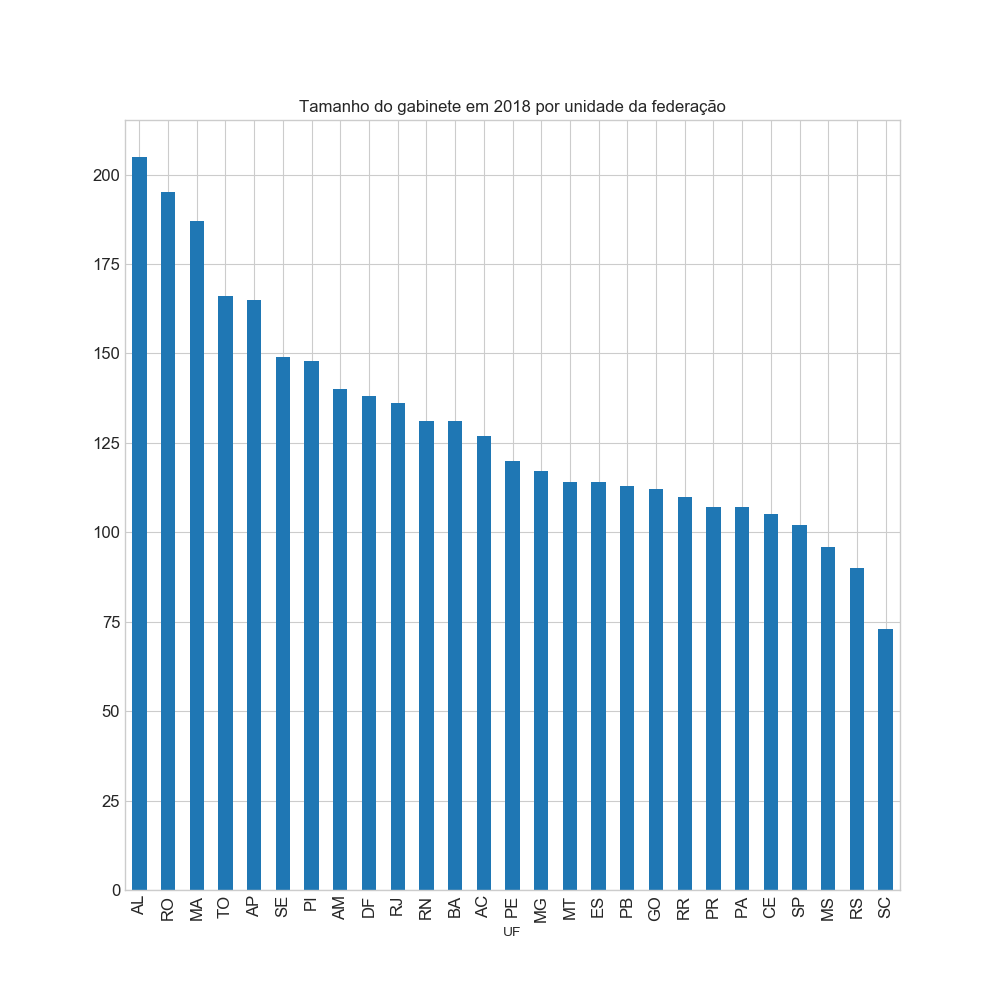
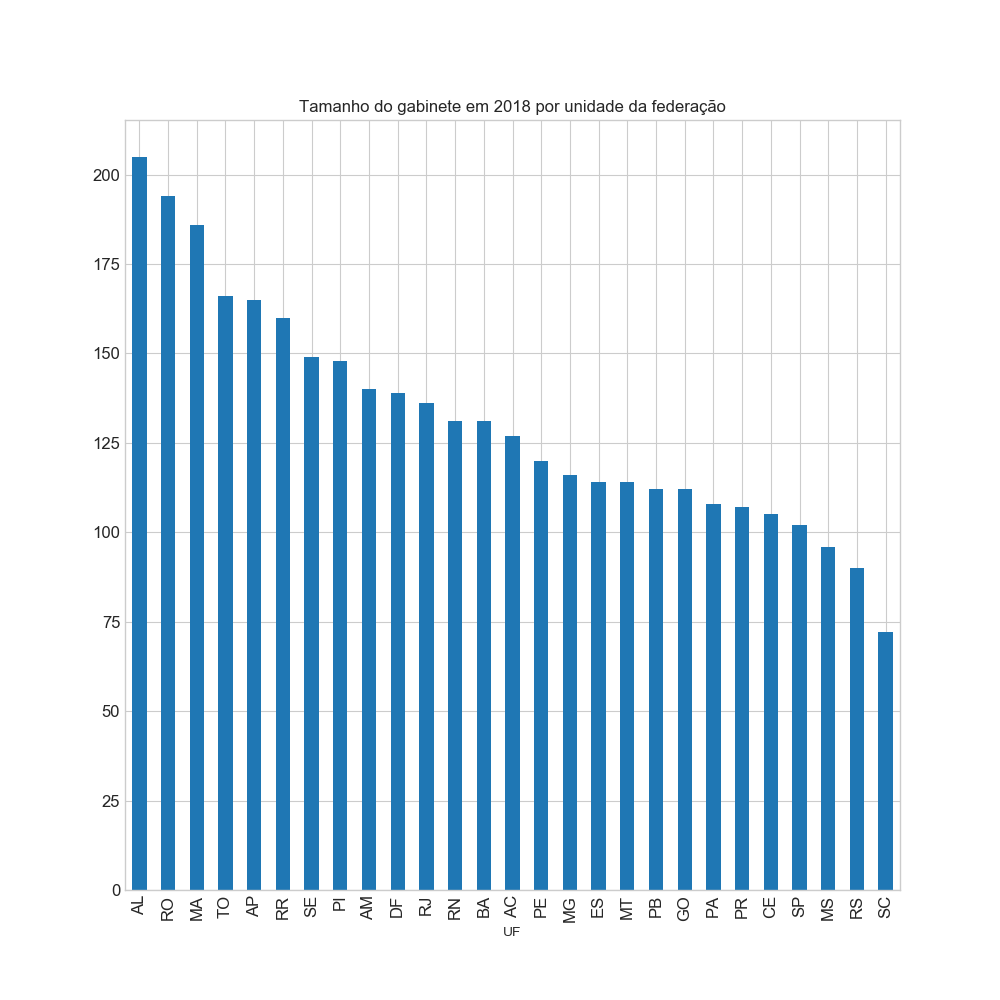
Tratamento de arquivo de creditos quando falta foto Preferência por aspas simples Atualização de dados do Senado

diff --git a/index.html b/index.html
@@ -23,7 +23,7 @@
 <!--Data-->       
 08/06/2018 às 
 <!--Hora-->
-00:48:32      </b><br></div>
+12:01:29      </b><br></div>
       <br>
       <div class="TextoImagem">
         <center>
@@ -166,7 +166,7 @@
               <td align='left'>Titular</td>
               <td align='middle'>MG</td>
               <td align='left'>PSDB</td>
-              <td align='right'>24 pessoas</td>
+              <td align='right'>23 pessoas</td>
               <td align='right'>39 meses</td>
             </tr>
             <tr>
@@ -221,7 +221,7 @@
               <td align='left'>Titular</td>
               <td align='middle'>PB</td>
               <td align='left'>PSDB</td>
-              <td align='right'>52 pessoas</td>
+              <td align='right'>51 pessoas</td>
               <td align='right'>40 meses</td>
             </tr>
             <tr>
@@ -430,7 +430,7 @@
               <td align='left'>1º Suplente</td>
               <td align='middle'>DF</td>
               <td align='left'>PROS</td>
-              <td align='right'>98 pessoas</td>
+              <td align='right'>99 pessoas</td>
               <td align='right'>0 meses</td>
             </tr>
             <tr>
@@ -452,7 +452,7 @@
               <td align='left'>Titular</td>
               <td align='middle'>RO</td>
               <td align='left'>PP</td>
-              <td align='right'>75 pessoas</td>
+              <td align='right'>74 pessoas</td>
               <td align='right'>41 meses</td>
             </tr>
             <tr>
@@ -474,7 +474,7 @@
               <td align='left'>Titular</td>
               <td align='middle'>MA</td>
               <td align='left'>MDB</td>
-              <td align='right'>87 pessoas</td>
+              <td align='right'>86 pessoas</td>
               <td align='right'>41 meses</td>
             </tr>
             <tr>
@@ -672,7 +672,7 @@
               <td align='left'>Titular</td>
               <td align='middle'>SC</td>
               <td align='left'>PSDB</td>
-              <td align='right'>28 pessoas</td>
+              <td align='right'>27 pessoas</td>
               <td align='right'>41 meses</td>
             </tr>
             <tr>
@@ -694,7 +694,7 @@
               <td align='left'>Titular</td>
               <td align='middle'>PA</td>
               <td align='left'>PT</td>
-              <td align='right'>46 pessoas</td>
+              <td align='right'>47 pessoas</td>
               <td align='right'>24 meses</td>
             </tr>
             <tr>
@@ -870,7 +870,7 @@
               <td align='left'>2º Suplente</td>
               <td align='middle'>RR</td>
               <td align='left'>PV</td>
-              <td align='right'>0 pessoas</td>
+              <td align='right'>50 pessoas</td>
               <td align='right'>0 meses</td>
             </tr>
             <tr>

diff --git a/senado.py b/senado.py
@@ -58,7 +58,7 @@ parser.add_argument('-i', '--intervalo', dest='intervalo', type=float, default=0
 
 args = parser.parse_args()
 
-versao = '0.2.31'
+versao = '0.2.32'
 
 
 def leDadosParlamentares(legislatura=55):
@@ -83,11 +83,11 @@ def leDadosParlamentares(legislatura=55):
                             'Quarta', 'Quinta', 'Sexta', 'Setima', 'Oitava', 'Nona']
         for ordinal in ordemLegislatura:
             # Se não encontrou legislatura então não é senador atual
-            if parlamentar['Mandatos']['Mandato'].get(f"{ordinal}LegislaturaDoMandato", '') == '':
+            if parlamentar['Mandatos']['Mandato'].get(f'{ordinal}LegislaturaDoMandato', '') == '':
                 return False
 
             ordemLegislatura = parlamentar['Mandatos'][
-                'Mandato'][f"{ordinal}LegislaturaDoMandato"]
+                'Mandato'][f'{ordinal}LegislaturaDoMandato']
             # Datas estão no formato aaaa-mm-dd
             inicio = [int(x)
                       for x in ordemLegislatura['DataInicio'].split('-')]
@@ -113,8 +113,8 @@ def leDadosParlamentares(legislatura=55):
     # Define que aceita JSON
     # Resposta padrão da API é XML
     header = {'Accept': 'application/json',
-              'user-agent': f"senadoInfo/{versao}"}
-    url = f"http://legis.senado.leg.br/dadosabertos/senador/lista/legislatura/{legislatura}"
+              'user-agent': f'senadoInfo/{versao}'}
+    url = f'http://legis.senado.leg.br/dadosabertos/senador/lista/legislatura/{legislatura}'
 
     try:
         senadores = requests.get(url, headers=header)
@@ -154,8 +154,8 @@ def leDadosParlamentares(legislatura=55):
     PI,5016,wellington.dias@senador.leg.br,Wellington Dias,José Wellington Barroso de Araujo Dias,PT,Masculino
     Os dados destes senadores não serão incluídos nos cálculos de estatísticas
     """
-    listaNegada = ["Demóstenes Torres", "Gilvam Borges", "Itamar Franco", "João Ribeiro",
-                   "Marinor Brito", "Vital do Rêgo", "Wellington Dias", "Wilson Santiago"]
+    listaNegada = ['Demóstenes Torres', 'Gilvam Borges', 'Itamar Franco', 'João Ribeiro',
+                   'Marinor Brito', 'Vital do Rêgo', 'Wellington Dias', 'Wilson Santiago']
     i = 0
     # Retira da lista os parlamentares que nunca exerceram mandato
     # ou que estão na "listaNegada"
@@ -234,9 +234,9 @@ def infoSenador(codigoSenador, ano=2017, intervalo=0, nascimento=False):
     if intervalo > 0:
         time.sleep(intervalo)
 
-    header = {'user-agent': f"senadoInfo/{versao}"}
+    header = {'user-agent': f'senadoInfo/{versao}'}
     # Coleta a página
-    url = f"http://www6g.senado.leg.br/transparencia/sen/{codigoSenador}/?ano={ano}"
+    url = f'http://www6g.senado.leg.br/transparencia/sen/{codigoSenador}/?ano={ano}'
 
     try:
         requisicao = requests.get(url, headers=header)
@@ -255,7 +255,7 @@ def infoSenador(codigoSenador, ano=2017, intervalo=0, nascimento=False):
         labelDadosPessoais = sopaSenador.find(
             'div', {'class': 'dadosPessoais'}).find_all('dt')
 
-        dataNascimento, cidade, estado = ["", "", ""]
+        dataNascimento, cidade, estado = ['', '', '']
 
         for index, label in enumerate(labelDadosPessoais):
             if label.text == 'Data de Nascimento:':
@@ -266,9 +266,9 @@ def infoSenador(codigoSenador, ano=2017, intervalo=0, nascimento=False):
                 if len(cidadeEstado) == 2:
                     estado = cidadeEstado[1].strip()[1:3]
 
-        if cidade == "":
+        if cidade == '':
             listaMunicipios = []
-        elif estado == "":
+        elif estado == '':
             listaMunicipios = municipios.query(
                 'NM_MUN_2016 == "{}"'.format(cidade.upper())).values
         else:
@@ -278,7 +278,7 @@ def infoSenador(codigoSenador, ano=2017, intervalo=0, nascimento=False):
         if len(listaMunicipios) != 1:
             codMunicipio = -1
             if args.debug:
-                print("Senador {}, erro de municipio: {} {}".format(
+                print('Senador {}, erro de municipio: {} {}'.format(
                     codigoSenador, cidade, estado))
         else:
             codMunicipio = listaMunicipios[0][4]
@@ -361,15 +361,17 @@ def infoSenador(codigoSenador, ano=2017, intervalo=0, nascimento=False):
 
     # Recupera dados de pessoal
     # bloco->div(#accordion-pessoal)->tbody->ALL tr(.sen_tabela_linha_grupo)
-    corpoQuantidade = bloco.find('div', {'id': 'accordion-pessoal'}).find('tbody')
+    corpoQuantidade = bloco.find(
+        'div', {'id': 'accordion-pessoal'}).find('tbody')
     if corpoQuantidade != None:
-        quantidades = corpoQuantidade.find_all('tr', {'class': 'sen_tabela_linha_grupo'})
+        quantidades = corpoQuantidade.find_all(
+            'tr', {'class': 'sen_tabela_linha_grupo'})
 
         # O título da utilização de pessoal está no elemento <span> e quantidades no elemento <a>
         for i in range(len(quantidades)):
             infoPessoal.append(
                 {'titulo': quantidades[i].find('span').text.strip(),
-                'quantidade': int(quantidades[i].find('a').text.strip().split()[0])})
+                 'quantidade': int(quantidades[i].find('a').text.strip().split()[0])})
 
     # print(bloco)
     # Retorna o gasto total do senador para o ano pedido
@@ -378,12 +380,12 @@ def infoSenador(codigoSenador, ano=2017, intervalo=0, nascimento=False):
 
 def infoLegislaturaAtual():
     if args.verbose:
-        print("Verificando legislatura atual...")
+        print('Verificando legislatura atual...')
     """Retorna a legislatura atual e os anos de exercício a partir
     da página de senadores em exercício do senado
     """
-    url = "https://www25.senado.leg.br/web/senadores/em-exercicio"
-    header = {'user-agent': f"senadoInfo/{versao}"}
+    url = 'https://www25.senado.leg.br/web/senadores/em-exercicio'
+    header = {'user-agent': f'senadoInfo/{versao}'}
     try:
         requisicao = requests.get(url, headers=header)
     except requests.exceptions.RequestException as erro:
@@ -454,7 +456,7 @@ def leGastosCombustiveis(anos):
     # senador(nome),codigo(inteiro),gastos(reais/float)
     for ano in range(anoInicial, anoFinal):
         dadosGastosCombustiveis[ano] = {}
-        arquivo = f"csv/{ano}C.csv"
+        arquivo = f'csv/{ano}C.csv'
         with open(arquivo, newline='') as gCombustiveis:
             gCReader = csv.reader(gCombustiveis)
             header = next(gCReader)
@@ -494,18 +496,18 @@ for senador in range(len(dados)):
         gastosSenadores[senador]['gastos'].append(gastos)
         if total != gastos['total']:
             print(
-                f"Erro de totalização: {dados[senador]['codigo']} - {ano} - {total} - {gastos['total']}")
-        dados[senador][f"gastos{ano}"] = total
+                f'Erro de totalização: {dados[senador]["codigo"]} - {ano} - {total} - {gastos["total"]}')
+        dados[senador][f'gastos{ano}'] = total
         dados[senador]['gastos'] += total
-        dados[senador][f"TotalGabinete-{ano}"] = 0
+        dados[senador][f'TotalGabinete-{ano}'] = 0
         for tipo in range(len(pessoal)):
-            coluna = f"{pessoal[tipo]['titulo']}-{ano}"
+            coluna = f'{pessoal[tipo]["titulo"]}-{ano}'
             colunaInteiro.add(coluna)
             quantidade = pessoal[tipo]['quantidade']
             dados[senador][coluna] = quantidade
-            dados[senador][f"TotalGabinete-{ano}"] += quantidade
+            dados[senador][f'TotalGabinete-{ano}'] += quantidade
         for beneficio in range(len(auxilio)):
-            coluna = f"{auxilio[beneficio]['beneficio']}-{ano}"
+            coluna = f'{auxilio[beneficio]["beneficio"]}-{ano}'
             colunaInteiro.add(coluna)
             meses = auxilio[beneficio]['meses']
             dados[senador][coluna] = meses
@@ -524,7 +526,7 @@ def consolidaGastosCombustiveis(senadores, combustiveis):
     """ Consolida o total gasto em combustíveis nos gastos dos senadores
     dados serão salvos em JSON
     """
-    caputCombustiveis = "Combustíveis"
+    caputCombustiveis = 'Combustíveis'
     for senador in range(len(senadores)):
         for gastos in range(len(senadores[senador]['gastos'])):
             gastosCSenador = gastosCombustiveis(
@@ -550,7 +552,7 @@ def consolidaDadosCombustiveisSenadores(dados, combustiveis):
                 combustiveis, codigo, ano)
             if gastosCombustiveisSenador > 0:
                 dados[senador]['gastos'] += gastosCombustiveisSenador
-                dados[senador][f"gastos{ano}"] += gastosCombustiveisSenador
+                dados[senador][f'gastos{ano}'] += gastosCombustiveisSenador
     return
 
 
@@ -632,7 +634,7 @@ print('O montante de despesas parlamentares em {:d} anos foi de '.format(len(ano
     totalGasto) + ', com media anual de ' + rtn.reais(totalGasto / len(anos)))
 
 if args.verbose:
-    print("Gravando arquivos...")
+    print('Gravando arquivos...')
 # Salva arquivos
 if not os.path.exists('csv'):
     os.makedirs('csv')
@@ -652,40 +654,48 @@ sexoT.to_csv('csv/sexoT.csv', index=True, na_rep='', header=True,
 
 with open('csv/anos.csv', 'w') as arquivoAnos:
     anosWriter = csv.writer(arquivoAnos)
-    anosWriter.writerow(["Legislatura", "Inicial", "Final", "Coleta"])
+    anosWriter.writerow(['Legislatura', 'Inicial', 'Final', 'Coleta'])
     anosWriter.writerow(
         [legislaturaAtual, anos[0], anos[-1], datetime.today()])
     arquivoAnos.close()
 
 if args.verbose:
-    print("Verificando fotos...")
+    print('Verificando fotos...')
 # Coleta fotos que estejam faltando
 # Créditos devem ser extraídos do
 # EXIF de cada foto
 dirFotos = 'fotos'
-creditosFotos = 'creditos.csv'
 
 if not os.path.exists(dirFotos):
     os.makedirs(dirFotos)
 
+
+def credita(fotoSenador, credito):
+    creditosFotos = 'creditos.csv'
+    with open(f'csv/{creditosFotos}', 'a') as creditos:
+        creditos.write(f'{fotoSenador},{credito}\n')
+
+
 for url in dadosSenado['urlFoto']:
-    nomeArquivo = f"{dirFotos}/{url.split('/')[-1]}"
+    fotoSenador = url.split('/')[-1]
+    nomeArquivo = f'{dirFotos}/{fotoSenador}'
     if not os.path.exists(nomeArquivo):
-        header = {'user-agent': f"senadoInfo/{versao}", 'Accept': 'image/jpeg'}
+        header = {'user-agent': f'senadoInfo/{versao}', 'Accept': 'image/jpeg'}
         try:
             requisicao = requests.get(url, headers=header, stream=True)
         except requests.exceptions.RequestException as erro:
             print(erro)
             sys.exit(1)
         if requisicao.status_code == 200:
-            print(f"Criando arquivo {nomeArquivo}...")
-            arquivo = open(nomeArquivo, 'wb')
-            arquivo.write(requisicao.content)
-            arquivo.close()
+            print(f'Criando arquivo {nomeArquivo}...')
+            with open(nomeArquivo, 'wb') as arquivo:
+                arquivo.write(requisicao.content)
+            credita(fotoSenador, 'A definir')
         else:
-            print(f"Erro {requisicao.status_code} na recuperação de {url}")
-            print(f"Criando arquivo {nomeArquivo} com foto vazia...")
-            fotoBranco = f"{dirFotos}/branco.jpg"
+            print(f'Erro {requisicao.status_code} na recuperação de {url}')
+            print(f'Criando arquivo {nomeArquivo} com foto vazia...')
+            fotoBranco = f'{dirFotos}/branco.jpg'
             shutil.copyfile(fotoBranco, nomeArquivo)
+            credita(fotoSenador, 'Nenhum')
             #
             # Falta incluir informação de crédito da foto...
